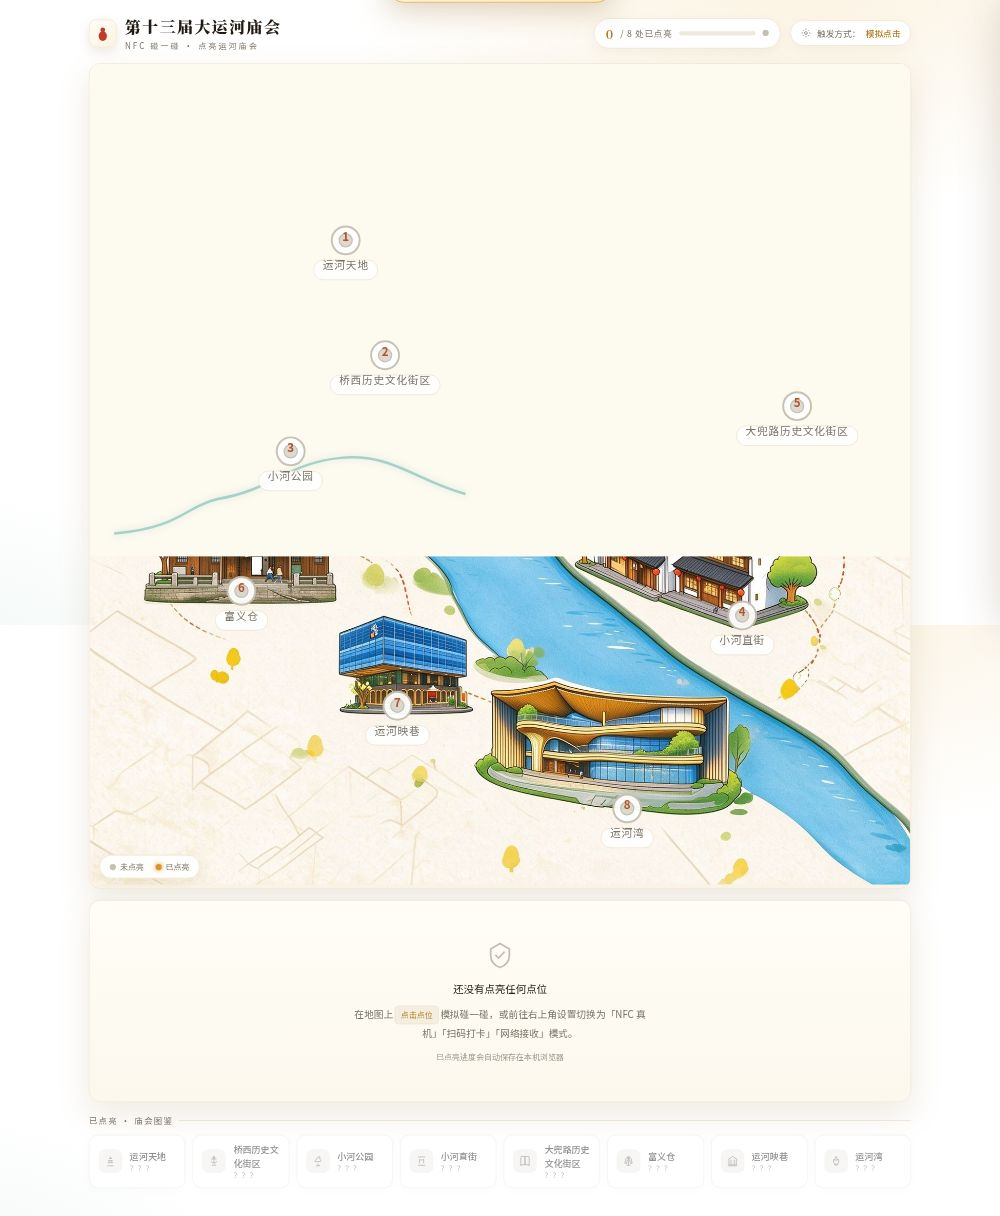
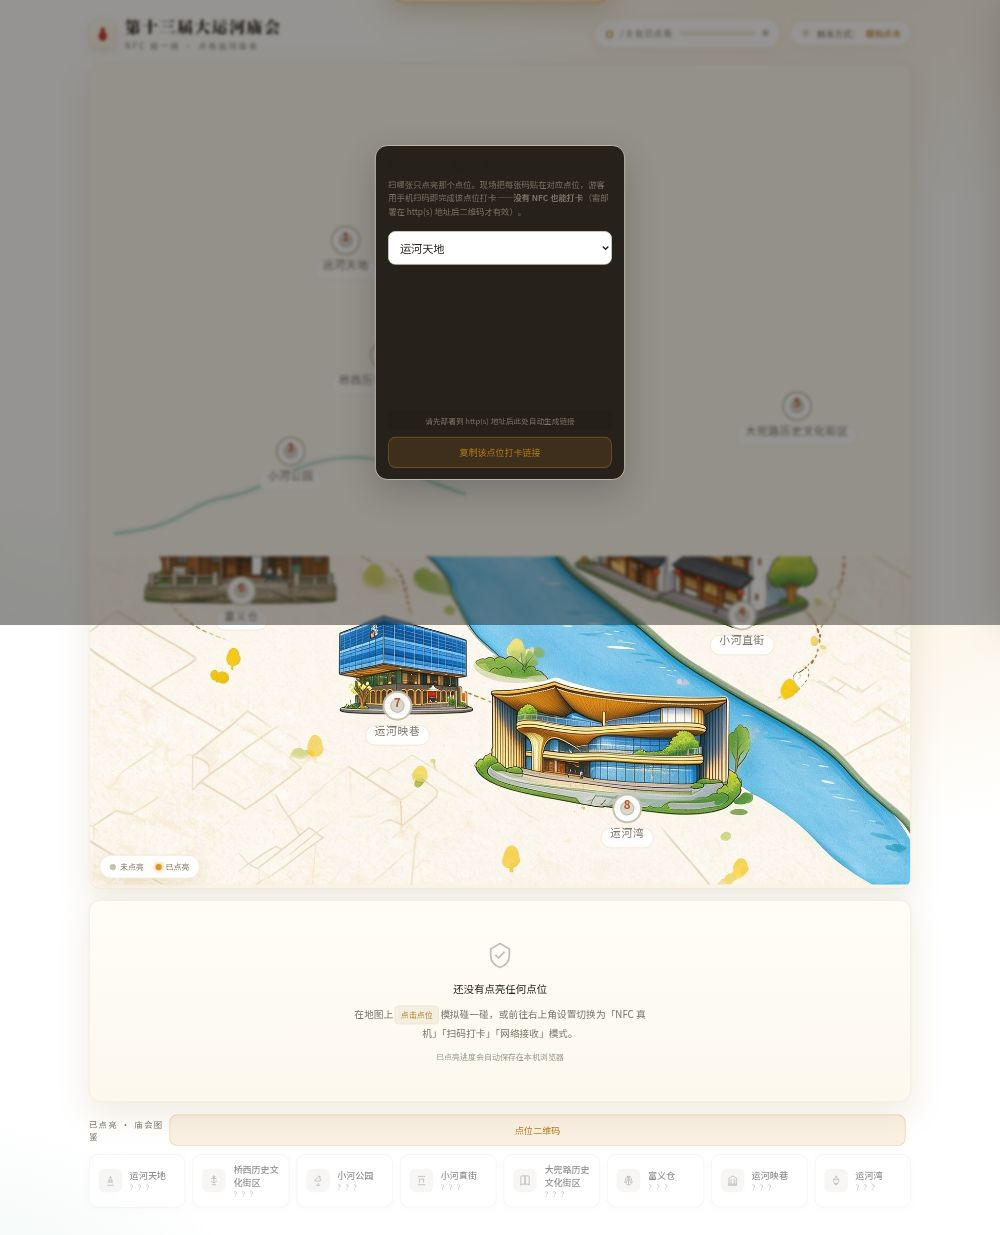
扫码打卡入口更明显：图鉴新增「点位二维码」弹窗，一键生成/复制任意点位打卡二维码（扫哪张亮哪个点位），无NFC游客可扫码打卡

diff --git a/index.html b/index.html
@@ -228,6 +228,12 @@ svg .island{fill:rgba(143,196,186,.16)}
 @media (prefers-reduced-motion:reduce){
   *{animation:none!important;transition:none!important}
 }
+.qr-modal{position:fixed;top:0;left:0;right:0;bottom:0;z-index:80;display:flex;align-items:center;justify-content:center;background:rgba(20,18,14,.45);backdrop-filter:blur(2px);padding:18px}
+.qr-card{background:var(--paper);border:1px solid var(--line);border-radius:18px;padding:18px 18px 16px;max-width:360px;width:100%;box-shadow:0 18px 50px rgba(0,0,0,.2)}
+.qr-head{display:flex;justify-content:space-between;align-items:center;margin-bottom:4px}
+.qr-head h3{margin:0;font-size:15px;letter-spacing:1px;color:var(--paper)}
+.qr-note{color:var(--paper-dim);font-size:12px;line-height:1.6;margin:6px 0 10px}
+.qr-link{word-break:break-all;font-size:11px;color:var(--paper-dim);text-align:center;padding:6px 8px;background:rgba(0,0,0,.04);border-radius:8px;margin-top:2px}
 </style>
 </head>
 <body>
@@ -324,10 +330,28 @@ svg .island{fill:rgba(143,196,186,.16)}
 
   <!-- ===== 图鉴 ===== -->
   <section class="collection">
-    <div class="cap">已点亮 · 庙会图鉴</div>
+    <div class="cap" style="display:flex;align-items:center;justify-content:space-between">
+      <span>已点亮 · 庙会图鉴</span>
+      <button class="reset-btn" id="qrBtn" style="background:var(--gold-soft);border-color:rgba(217,150,46,.4);color:var(--gold-bright)">点位二维码</button>
+    </div>
     <div class="strips" id="strips"></div>
   </section>
 
+</div>
+
+<!-- ===== 点位二维码弹窗（扫码打卡入口） ===== -->
+<div class="qr-modal" id="qrModal" hidden>
+  <div class="qr-card">
+    <div class="qr-head">
+      <h3>扫码打卡 · 点位二维码</h3>
+      <button class="d-close" id="qrClose" aria-label="关闭"><svg viewBox="0 0 24 24" fill="none" stroke="currentColor" stroke-width="1.8"><path d="M6 6l12 12M18 6L6 18"/></svg></button>
+    </div>
+    <div class="qr-note">扫哪张只点亮那个点位。现场把每张码贴在对应点位，游客用手机扫码即完成该点位打卡——<b>没有 NFC 也能打卡</b>（需部署在 http(s) 地址后二维码才有效）。</div>
+    <select class="d-input" id="qrPick"></select>
+    <div style="display:flex;justify-content:center;padding:14px 0"><canvas id="qrCanvas" width="180" height="180"></canvas></div>
+    <div class="qr-link" id="qrLink">—</div>
+    <button class="reset-btn" id="qrCopy" style="margin-top:10px;width:100%;background:var(--gold-soft);border-color:rgba(217,150,46,.4);color:var(--gold-bright)">复制该点位打卡链接</button>
+  </div>
 </div>
 
 <!-- ===== 设置抽屉 ===== -->
@@ -1200,6 +1224,36 @@ function setupScan(){
   draw();
 }
 
+/* ===== 图鉴「点位二维码」弹窗（扫码打卡便捷入口） ===== */
+function setupQrQuick(){
+  const modal=document.getElementById("qrModal");
+  const pick=document.getElementById("qrPick");
+  POINTS.forEach(p=>{ const o=document.createElement("option"); o.value=p.id; o.textContent=p.name; pick.appendChild(o); });
+  const base = location.href.split(/[?#]/)[0];
+  const linkEl = document.getElementById("qrLink");
+  const cv = document.getElementById("qrCanvas");
+  const draw = ()=>{
+    const id = Number(pick.value);
+    const url = base + "?tap=" + id;
+    linkEl.textContent = url;
+    const usable = url.indexOf("http")===0;
+    if(window.QRCode) QRCode.toCanvas(cv, usable ? url : "https://example.com/?tap="+id, { width:180, margin:1 }).catch(()=>{});
+    if(!usable) linkEl.textContent = "请先部署到 http(s) 地址后此处自动生成链接";
+  };
+  const close=()=>{ modal.hidden = true; };
+  pick.addEventListener("change", draw);
+  document.getElementById("qrBtn").addEventListener("click", ()=>{ modal.hidden=false; draw(); });
+  document.getElementById("qrClose").addEventListener("click", close);
+  modal.addEventListener("click", e=>{ if(e.target===modal) close(); });
+  document.getElementById("qrCopy").addEventListener("click", ()=>{
+    const url = linkEl.textContent;
+    if(url.indexOf("http")===0){
+      if(navigator.clipboard && navigator.clipboard.writeText) navigator.clipboard.writeText(url).then(()=>toast("已复制，可到草料/微信生成二维码打印")).catch(()=>window.prompt("复制链接", url));
+      else window.prompt("复制链接", url);
+    }else toast("请先部署到 http(s) 地址后复制");
+  });
+}
+
 /* ===== 打卡定位校验设置（开关 / 半径 / 现场打点校准） ===== */
 function setupGeo(){
   const req=document.getElementById("geoReq");
@@ -1253,6 +1307,7 @@ function init(){
   setupMap();
   setupReport();
   setupScan();
+  setupQrQuick();
   setupGeo();
   $("#nfcBtn").addEventListener("click", startNfc);
   // 默认提示文案随模式
